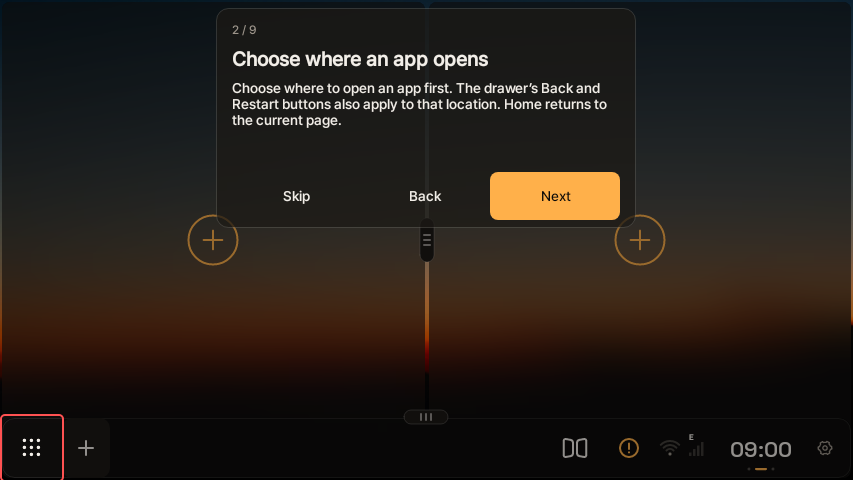
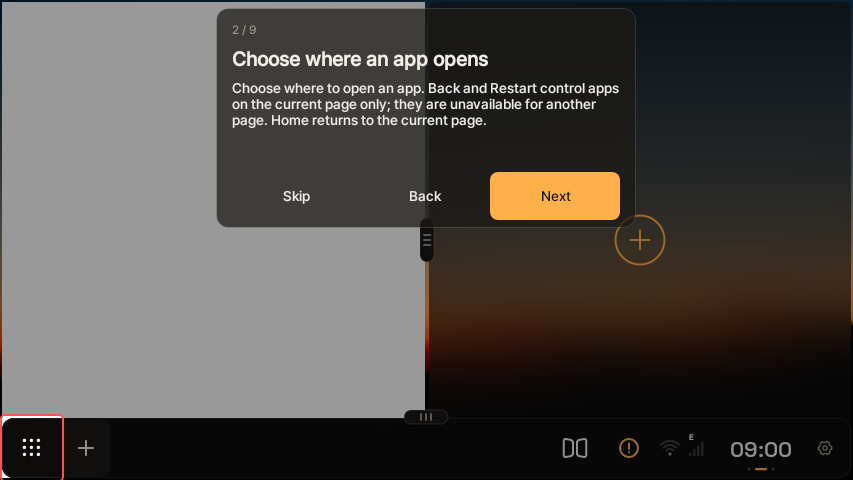
Publish signed OTA feed and guide for 1.7.2

diff --git a/README.md b/README.md
@@ -2,7 +2,7 @@
 
 DUO Launcher is a home launcher for Carlinkit and compatible Android AI Boxes that runs two apps side by side on the car screen. This repository holds the AI Box APK releases and the signed update feed only; it does not contain the app source code.
 
-Latest version: **1.7.1** · [Download the AI Box APK](https://github.com/byezzun/duo-launcher-updates/releases/download/v1.7.1/duo-launcher-aibox-1.7.1.apk). Hold the settings gear for Android’s native recent apps; taps still open Settings and clock holds still hide the dock. Requires the accessibility connection and firmware support. Includes the recovery and navigation improvements from 1.7.0. Install over the existing app without uninstalling. Real-device behavior needs confirmation.
+Latest version: **1.7.2** · [Download the AI Box APK](https://github.com/byezzun/duo-launcher-updates/releases/download/v1.7.2/duo-launcher-aibox-1.7.2.apk). User dismissals now take priority over automatic recovery; uncertain app status pauses recovery. Back and Restart control the current page only. Network retries are independent per pane, and backup review separates running the restored screen from restoring settings only. Hold the settings gear for Android’s native recent apps (accessibility and firmware support required). Install over the existing app without uninstalling. Real-device behavior needs confirmation.
 
 ## Screenshots
 
@@ -16,7 +16,7 @@ Rendered on a PC from DUO's real UI code. On the AI Box each pane shows the runn
 
 ## Tutorial
 
-The 9-step guide shown the first time DUO opens (updated for 1.7.1; the app-drawer launch action is on the final step). The red outline marks what each step explains. You can replay it from Settings.
+The 9-step guide shown the first time DUO opens (updated for 1.7.2; the app-drawer launch action is on the final step). The red outline marks what each step explains. You can replay it from Settings.
 
 |   |   |   |
 | --- | --- | --- |
@@ -40,7 +40,7 @@ Running apps inside DUO needs the required system privileges and matching device
 
 Carlinkit 및 호환 AI Box를 위한 APK와 서명된 업데이트 정보입니다. 앱 소스 코드는 포함하지 않습니다.
 
-최신 버전: **1.7.1** · [AI Box APK 다운로드](https://github.com/byezzun/duo-launcher-updates/releases/download/v1.7.1/duo-launcher-aibox-1.7.1.apk). 톱니바퀴를 길게 누르면 Android 기본 최근 앱 화면을 엽니다. 짧게 누르면 설정, 시계 길게 누르기는 독 숨기기를 유지합니다. 접근성 연결과 기기의 최근 앱 지원이 필요합니다. 1.7.0의 복구·메뉴 개선도 포함합니다. 기존 앱 위에 설치하세요. 기기별 동작 확인은 남아 있습니다.
+최신 버전: **1.7.2** · [AI Box APK 다운로드](https://github.com/byezzun/duo-launcher-updates/releases/download/v1.7.2/duo-launcher-aibox-1.7.2.apk). 사용자가 닫은 앱은 자동으로 다시 켜지 않도록 하고, 상태를 확인할 수 없을 때는 자동 복구를 보류합니다. 뒤로·다시 실행은 현재 페이지에만 적용하며, 인터넷 대기·재시도는 앱별로 분리했습니다. 백업은 실행 여부를 선택해 복원할 수 있습니다. 톱니바퀴 길게 누르기의 최근 앱 화면은 접근성 연결과 기기 지원이 필요합니다. 기존 앱 위에 설치하세요. 기기별 동작 확인은 남아 있습니다.
 
 위 스크린샷과 사용 안내 화면은 DUO의 실제 화면 코드를 PC에서 그린 이미지입니다. 차량에서는 각 영역에 실제 앱 화면이 나오며, 여기서는 예시 앱 아이콘으로 표시했습니다. 독의 경고 표시는 PC 환경에 시스템 권한이 없어서 보입니다. 앱 안의 사용 안내는 기기 언어에 따라 한국어로도 나옵니다.
 
